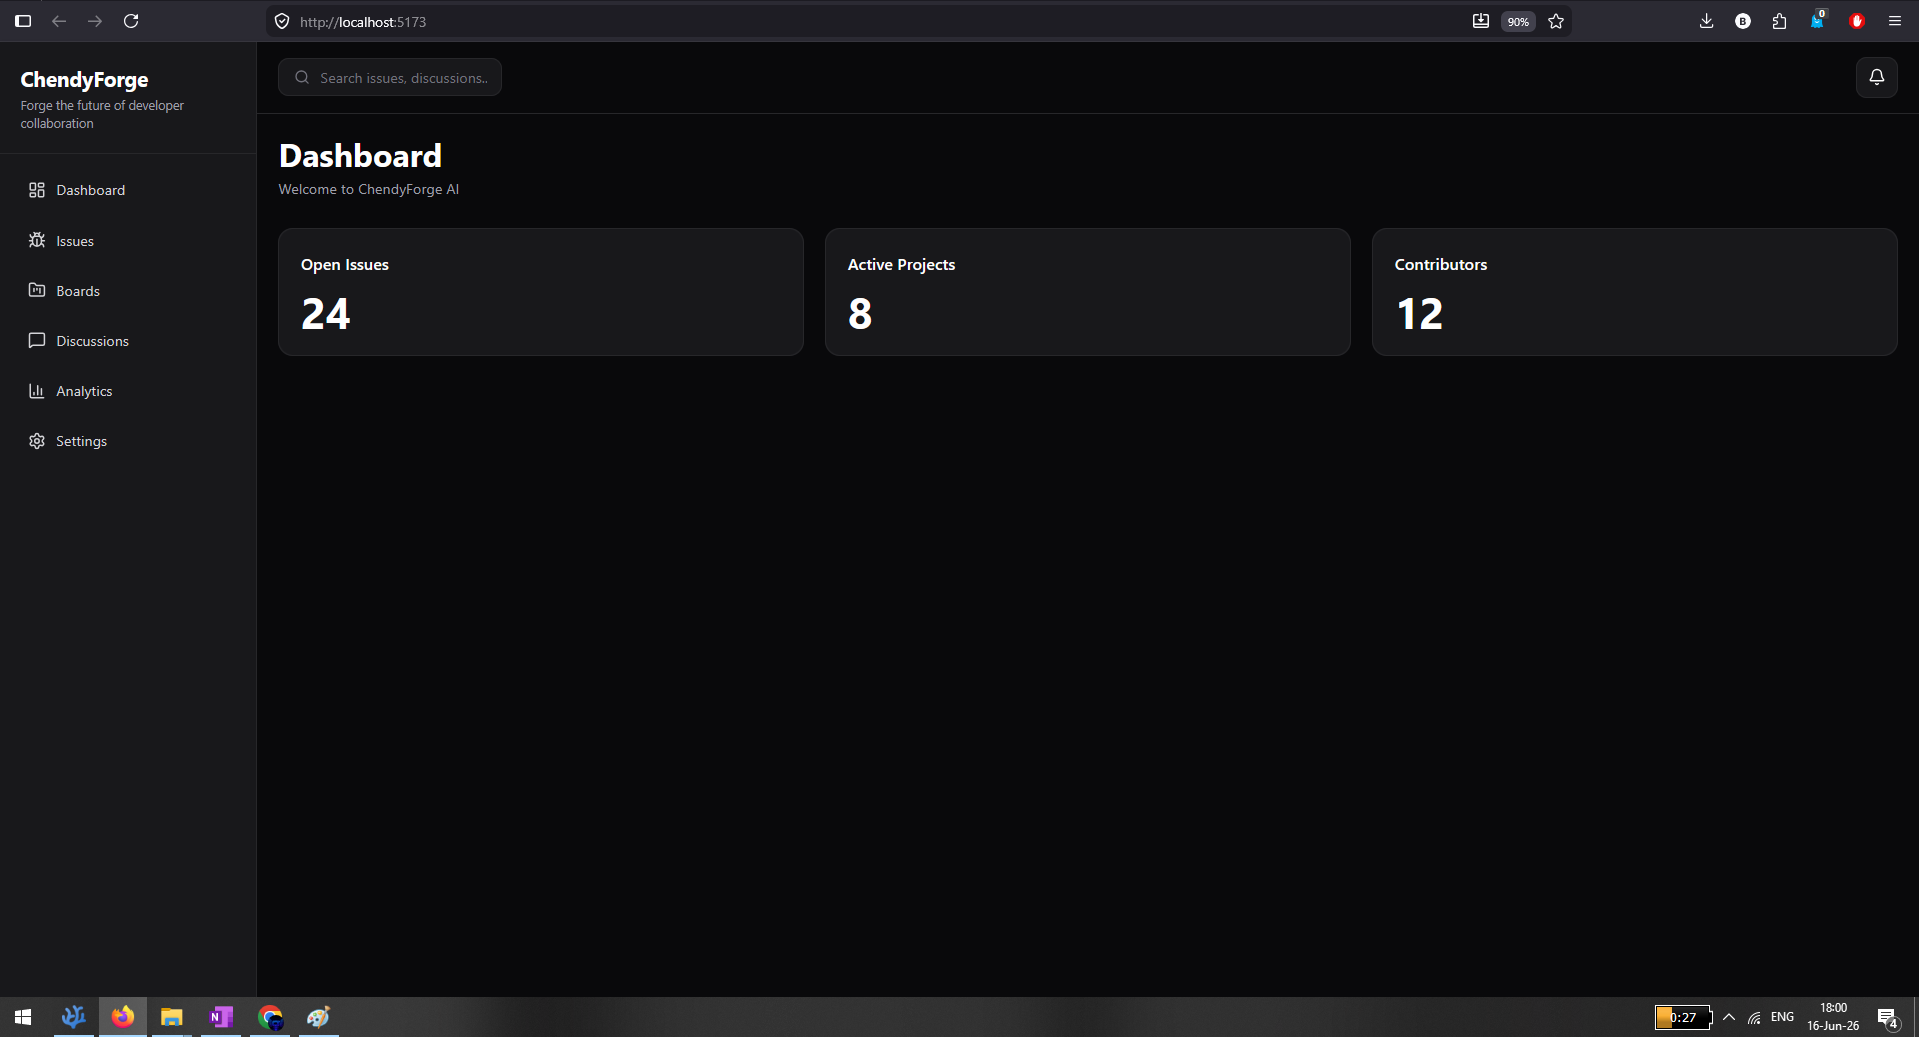
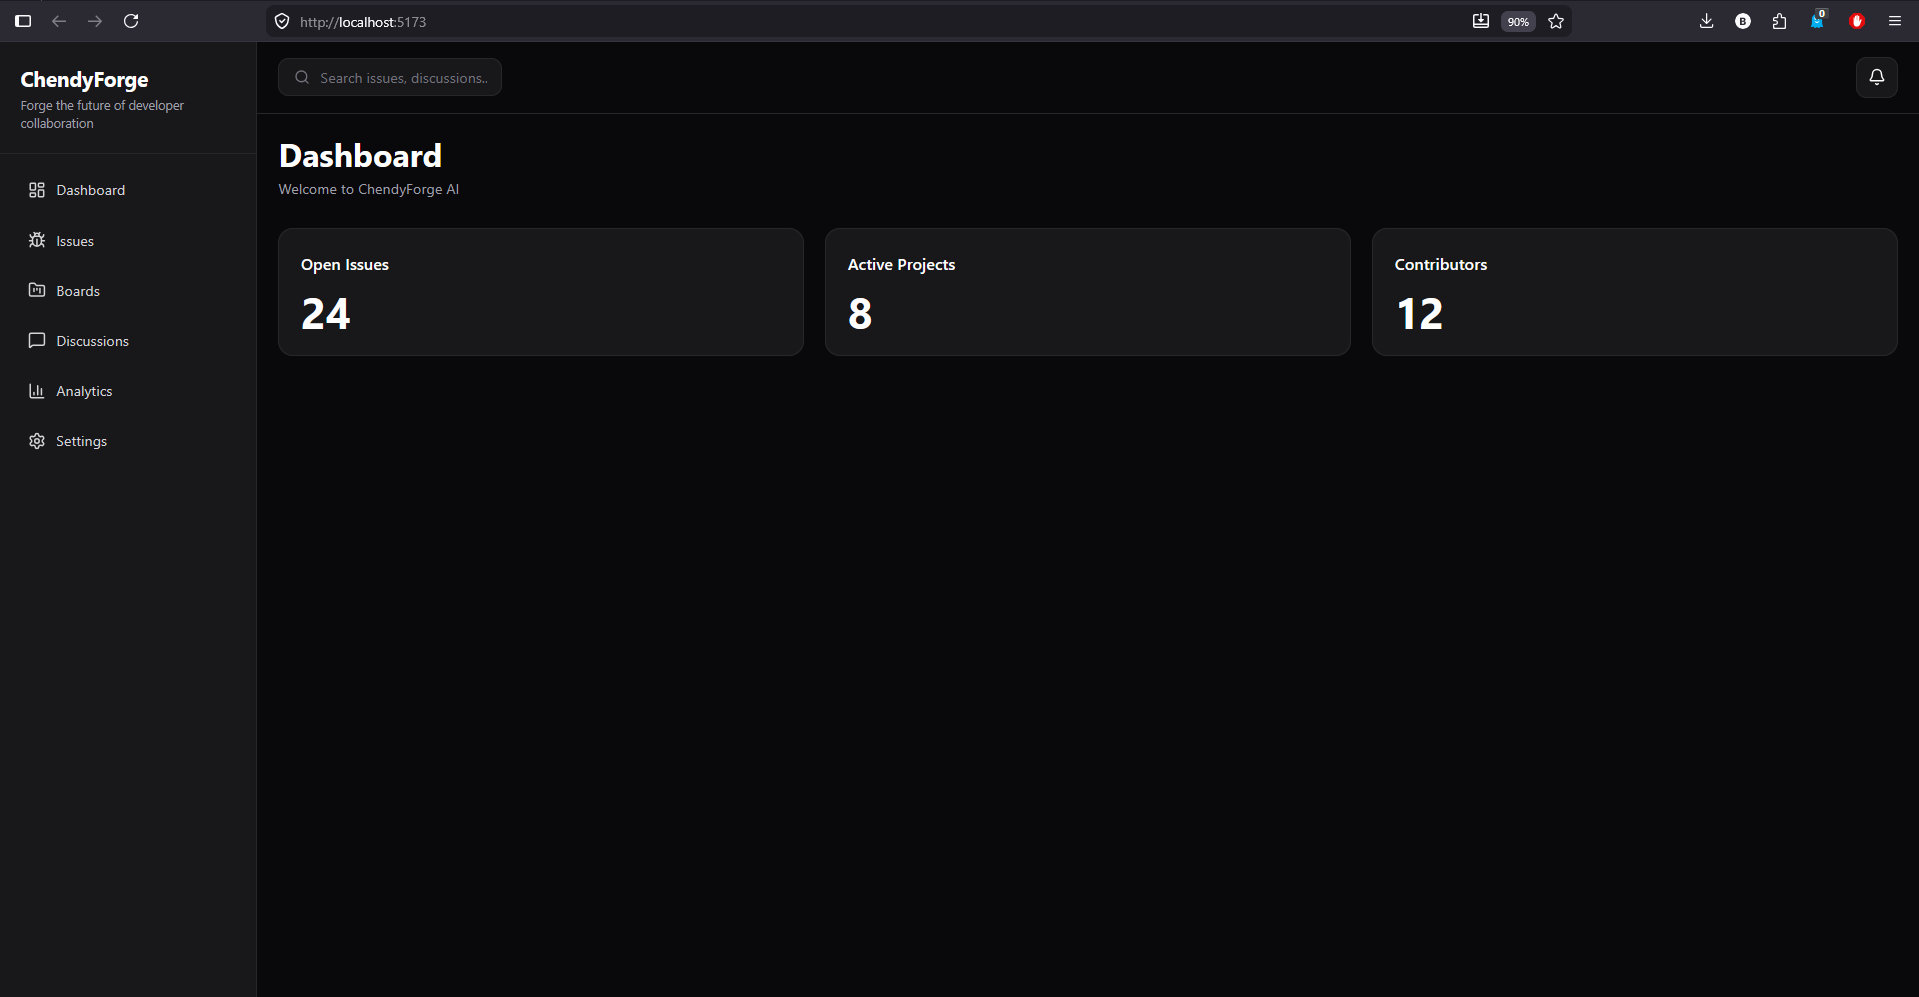
Develop (#8)
* refactor(dashboard): update dasboard to the new Platform one

* style: rebrand the dashboard to new platform logo

* feat(router): implement application routing architecture (#4)

* Feature/zustand board store (#7)

* feat(router): implement application routing architecture

* refator: change board screenshot image

* feat(store): implement global board state with zustand

diff --git a/apps/web/src/store/boardStore.ts b/apps/web/src/store/boardStore.ts
@@ -1,0 +1,62 @@
+import { create } from "zustand"
+
+export interface Issue {
+  id: string
+  title: string
+  priority: string
+  assignee: string
+  columnId: string
+}
+
+interface BoardStore {
+  issues: Issue[]
+
+  moveIssue: (
+    issueId: string,
+    newColumnId: string
+  ) => void
+}
+
+export const useBoardStore =
+  create<BoardStore>((set) => ({
+    issues: [
+      {
+        id: "1",
+        title: "Implement JWT authentication",
+        priority: "high",
+        assignee: "HW",
+        columnId: "backlog",
+      },
+
+      {
+        id: "2",
+        title: "Build realtime websocket gateway",
+        priority: "medium",
+        assignee: "TK",
+        columnId: "planned",
+      },
+
+      {
+        id: "3",
+        title: "Design issue analytics dashboard",
+        priority: "low",
+        assignee: "AL",
+        columnId: "in-progress",
+      },
+    ],
+
+    moveIssue: (
+      issueId,
+      newColumnId
+    ) =>
+      set((state) => ({
+        issues: state.issues.map((issue) =>
+          issue.id === issueId
+            ? {
+                ...issue,
+                columnId: newColumnId,
+              }
+            : issue
+        ),
+      })),
+  }))

diff --git a/apps/web/src/pages/boards/BoardPage.tsx b/apps/web/src/pages/boards/BoardPage.tsx
@@ -1,7 +1,12 @@
 import BoardColumn from "../../components/board/BoardColumn"
-import { columns, issues } from "../../data/boardData"
+import { columns } from "../../data/boardData"
+import { useBoardStore } from "../../store/boardStore"
 
 export default function BoardPage() {
+  const issues = useBoardStore(
+    (state) => state.issues
+  )
+
   return (
     <div>
       <div className="mb-8">
@@ -14,11 +19,13 @@ export default function BoardPage() {
         </p>
       </div>
 
-      <div className="flex gap-6 overflow-x-auto pb-4">
+      <div className="flex gap-6 overflow-x-auto">
         {columns.map((column) => {
-          const filteredIssues = issues.filter(
-            (issue) => issue.columnId === column.id
-          )
+          const filteredIssues =
+            issues.filter(
+              (issue) =>
+                issue.columnId === column.id
+            )
 
           return (
             <BoardColumn

diff --git a/apps/web/src/App.tsx b/apps/web/src/App.tsx
@@ -3,7 +3,6 @@ import { BrowserRouter } from "react-router-dom"
 import MainLayout from "./layouts/MainLayout"
 import AppRoutes from "./routes/AppRoutes"
 
-
 function App() {
   return (
     <BrowserRouter>
